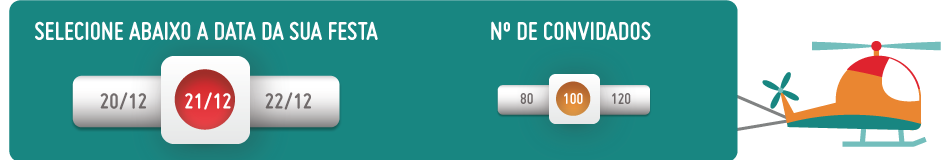
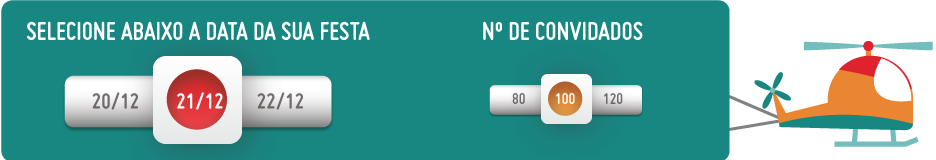
sidebar map added

diff --git a/css/style.css b/css/style.css
@@ -123,7 +123,7 @@ ul.topnav-full a {
 }
 
 /* Main Content */
-.main-content {
+.content-wrapper {
     margin: 5px 0;
     background-color: #E4F2F2;
     background: url(../img/bg.png) repeat left top;
@@ -132,21 +132,23 @@ ul.topnav-full a {
     -o-background-size: auto;
     background-size: auto;
     grid-column: 1 / -1;
-}.content-header {
+}
+.content-header {
     display: grid;
-    grid-template-columns: 2fr auto 2fr;
+    grid-template-columns: 3fr auto 2fr;
     grid-template-areas: 
     "a b c"
     "d e f"
-    "g h i";
+    "g h i"
+    "j k k";
 }
-
 .top-slide {
     grid-area: b;
     padding: 30px 0 20px;
 }
 .top-slide img {
     display: block;
+    max-width: 850px;
     margin: 0 auto;
 }
 .sorting {
@@ -154,7 +156,7 @@ ul.topnav-full a {
     color: #2C8480;
     font-size: 24px;
     font-family: miso-bold;
-    padding: 20px 10px;
+    padding: 20px 0;
     display: block;
 }
 .sorting a {
@@ -172,7 +174,7 @@ ul.topnav-full a {
     font-size: 32px;
     font-family: miso-bold;
     height: 35px;
-    margin: 20px 10px;
+    margin: 20px 0px;
     padding: 8px 15px;
 }
 .calendar .icon-calendar {
@@ -193,6 +195,46 @@ ul.topnav-full a {
 }
 .top-slide-mobile {
     display: none;
+}
+.sidebar{
+    min-height: 120px;
+    grid-area: j;
+}
+.map{
+    overflow:hidden;
+    padding-bottom:56.25%;
+    position:relative;
+    height:0;
+    margin: 20px;
+}
+.map iframe{
+    left:0;
+    top:0;
+    height:100%;
+    width:100%;
+    position:absolute;
+}
+.search {
+    background-color: #fff;
+    margin: 20px;
+    padding: 20px;
+}
+.search h3{
+    margin-top: 0;
+}
+.main-content {
+    background-color: #fff;
+    margin: 20px 0;
+    min-height: 120px;
+    grid-area: k;
+    width: 100%;
+}
+
+.footer{
+    background-color: #6FC0C2;
+    color: #fff;
+    min-height: 50px;
+    text-align: center;
 }
 
 
@@ -286,6 +328,9 @@ ul.topnav-full a {
     }
     .top-slide img {
         width: 98%;
+    }
+    .sidebar{
+        display: none;
     }
 }
 

diff --git a/index.html b/index.html
@@ -56,7 +56,7 @@
         <!-- End Header Aria -->
 
         <!-- Start Main Content Aria -->
-        <div class="main-content">
+        <div class="content-wrapper">
 
              <!-- Start Content Header -->
             <div class="content-header">
@@ -79,11 +79,31 @@
                     </div>
     
                 </div>
+
+
+                <div class="sidebar">
+                    <div class="map">
+                        <iframe src="https://www.google.com/maps/d/embed?mid=1amOtS54WBe3YdNMq8NIkbGIKBAw" width="100" height="100"></iframe>
+                    </div>
+                    <div class="search">
+                        <h3>Search</h3>
+                    </div>
+                </div>
+                <div class="main-content">
+                    Main Content
+                </div>
+
             </div>
             <!-- End Content Header -->
 
+            <!-- Start Content -->
+
+            <!-- End Content -->
+
         </div>
         <!-- End Main Content Aria -->
+
+        <div class="footer">Footer</div>
 
     </div>
 </body>
